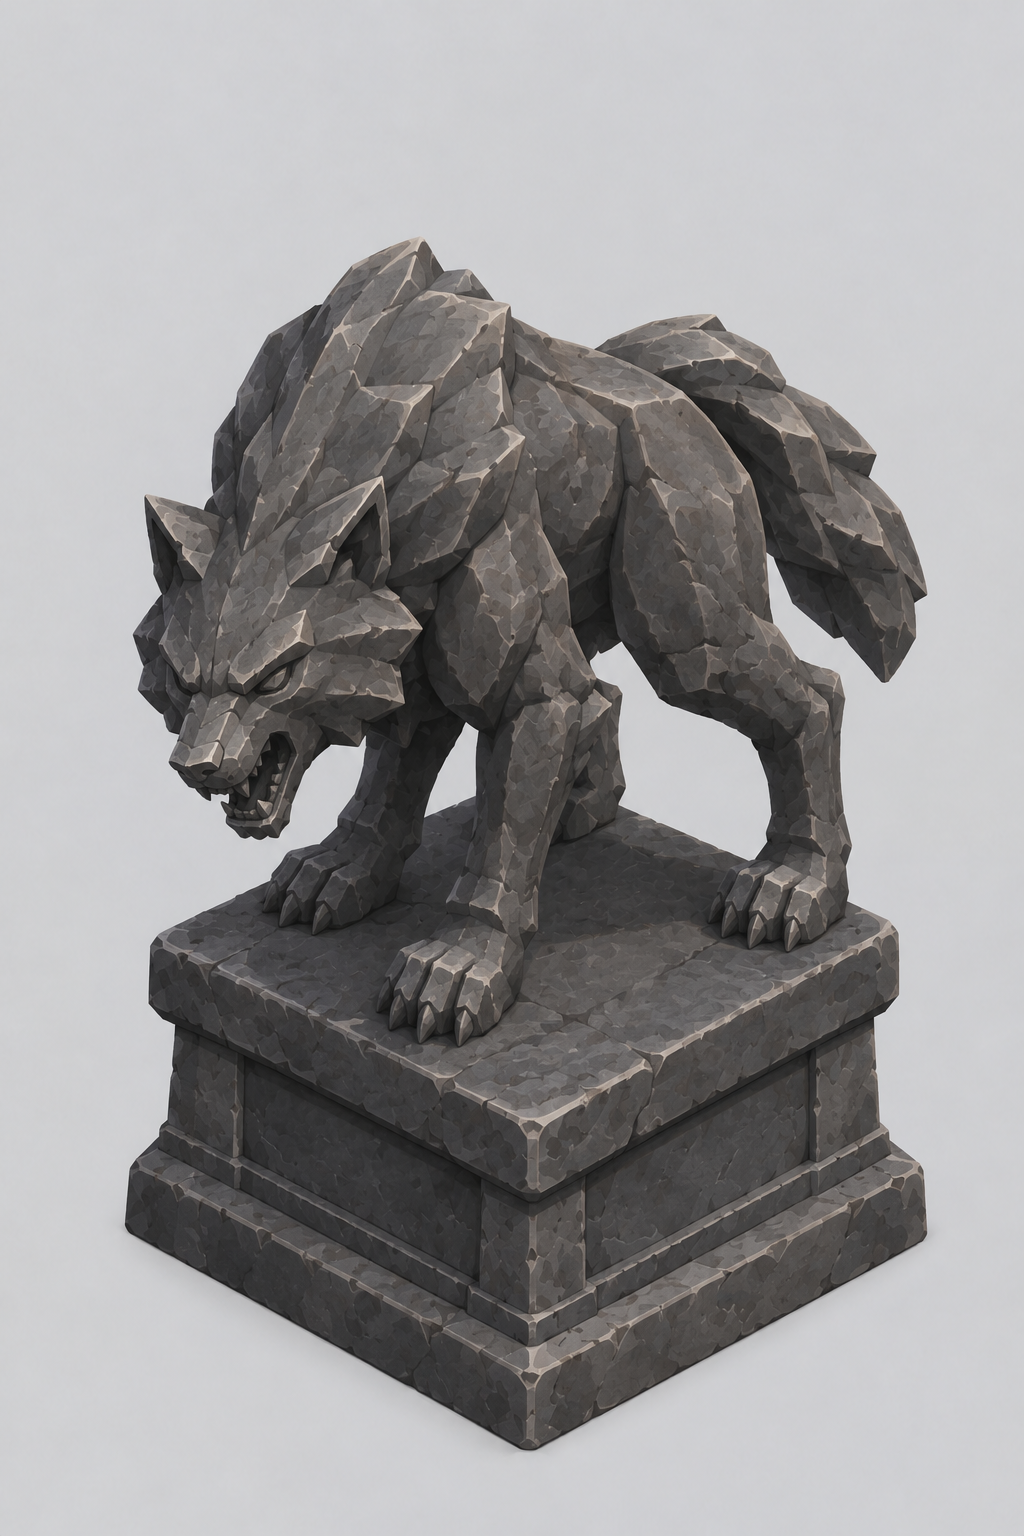
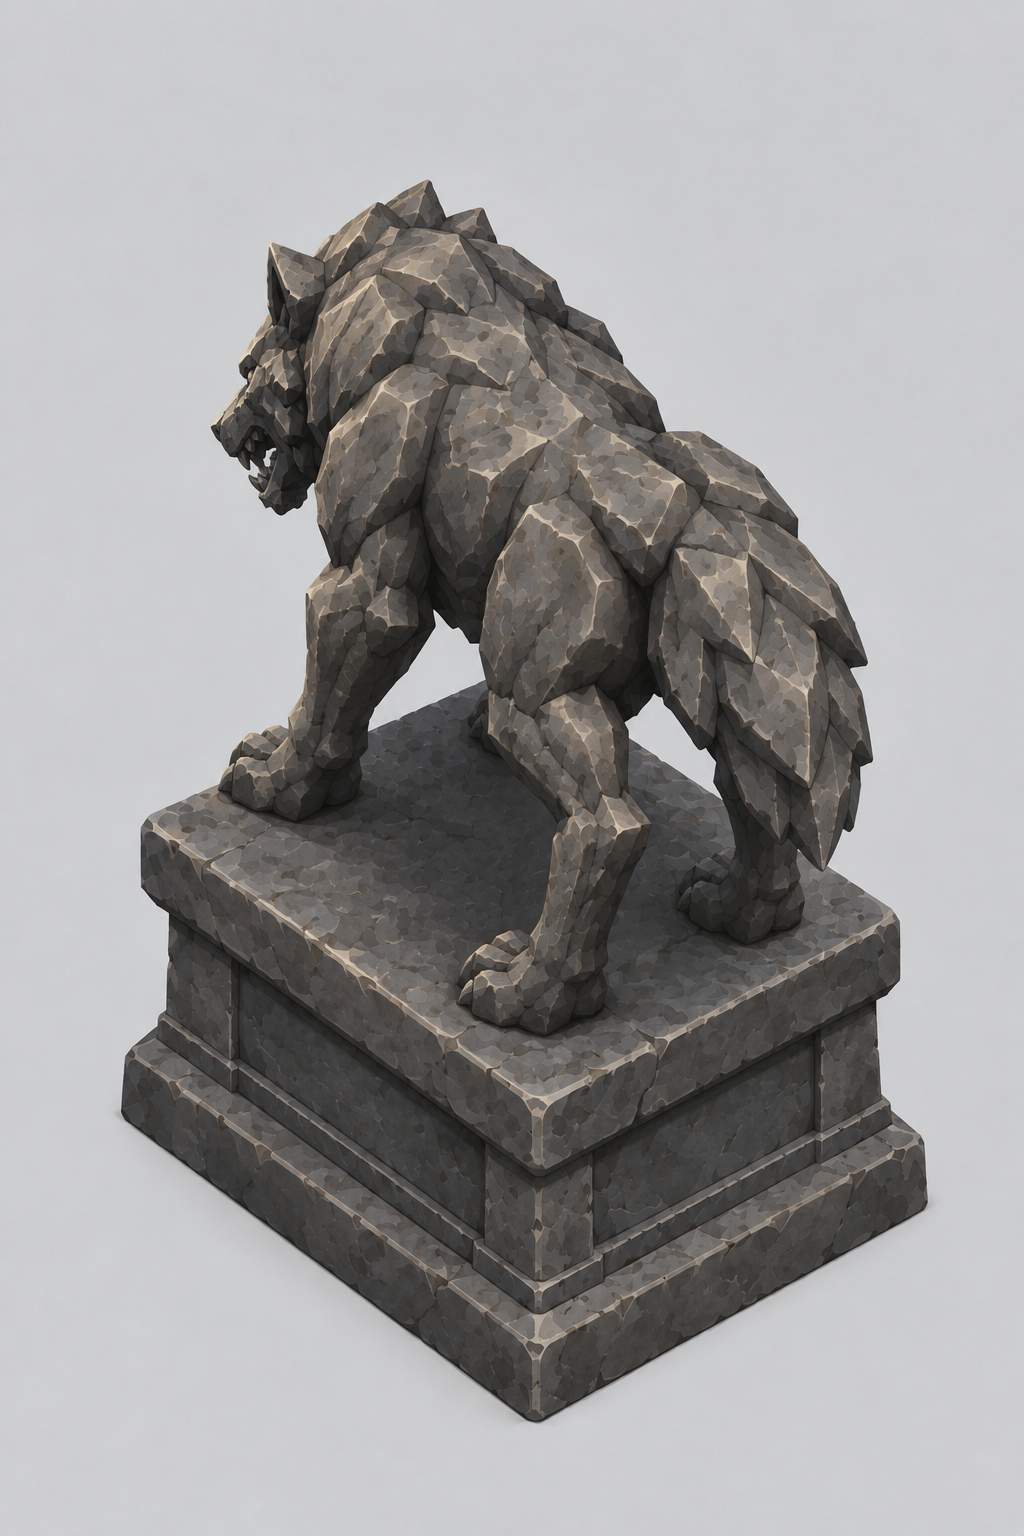
Flip the board view, back-view wolves, animated clouds
- The board is drawn turned 180 degrees (view only, rules unchanged): the
  player deploys at the top and faces down-right towards the enemy rows.
- Wolves use a new back-view statue facing up-left towards the player.
- The tower painting's light areas (its clouds) swirl slowly, and two
  cloud bands drift across the tower walls.
- Scenery fitting finds the board's corners by screen position.

Changed region(s): [[0.0938, 0.0938, 0.9062, 0.9688]]

diff --git a/Assets/Scripts/View/BattleScenery.cs b/Assets/Scripts/View/BattleScenery.cs
@@ -33,11 +33,13 @@ namespace ArmyRoguelike.View
             public Vector2 Top, Left, Bottom, Right;
             // Resources folder with this setting's painted floor slabs (slab_*) and rocks (rock_*), if any.
             public string ArtFolder;
+            // The painting's light parts are clouds: let them swirl, and drift more cloud past in front.
+            public bool Clouds;
         }
 
         private static readonly Dictionary<Setting, IsoScene> IsoScenes = new Dictionary<Setting, IsoScene>
         {
-            [Setting.IsoTower] = new IsoScene { Texture = "Backdrops/iso_tower", Top = new Vector2(838, 155), Left = new Vector2(410, 388), Bottom = new Vector2(842, 632), Right = new Vector2(1262, 380), ArtFolder = "Tower" },
+            [Setting.IsoTower] = new IsoScene { Texture = "Backdrops/iso_tower", Top = new Vector2(838, 155), Left = new Vector2(410, 388), Bottom = new Vector2(842, 632), Right = new Vector2(1262, 380), ArtFolder = "Tower", Clouds = true },
             [Setting.IsoTemple] = new IsoScene { Texture = "Backdrops/iso_temple", Top = new Vector2(745, 220), Left = new Vector2(355, 430), Bottom = new Vector2(880, 735), Right = new Vector2(1265, 470) },
             [Setting.IsoGraveyard] = new IsoScene { Texture = "Backdrops/iso_graveyard", Top = new Vector2(840, 210), Left = new Vector2(325, 470), Bottom = new Vector2(905, 765), Right = new Vector2(1330, 490) },
         };
@@ -78,7 +80,18 @@ namespace ArmyRoguelike.View
 
             if (IsoScenes.TryGetValue(setting, out var scene))
             {
-                BuildIsoScene(root, board, scene, NewMaterial(shader, Resources.Load<Texture2D>(scene.Texture), ramp));
+                var sceneMaterial = NewMaterial(shader, Resources.Load<Texture2D>(scene.Texture), ramp);
+                BuildIsoScene(root, board, scene, sceneMaterial);
+                if (scene.Clouds)
+                {
+                    sceneMaterial.SetFloat("_Flow", 0.012f);
+                    var wisps = CloudTexture();
+                    var screenBottom = centre.y - viewH * 0.5f;
+                    // Two bands at different heights and speeds, low across the tower's walls.
+                    CloudBand(root, NewMaterial(shader, wisps, ramp), FrontCloudOrder, centre.x, viewW, screenBottom - 0.3f, 1.3f, 0.9f, 0.006f);
+                    CloudBand(root, NewMaterial(shader, wisps, ramp), FrontCloudOrder + 1, centre.x, viewW, screenBottom - 0.2f, 0.8f, 1f, -0.011f);
+                }
+
                 var art = scene.ArtFolder != null ? Resources.LoadAll<Sprite>(scene.ArtFolder) : new Sprite[0];
                 var slabs = System.Array.FindAll(art, s => s.name.StartsWith("slab_"));
                 var rocks = System.Array.FindAll(art, s => s.name.StartsWith("rock_"));
@@ -142,14 +155,9 @@ namespace ArmyRoguelike.View
             var tex = (Texture2D)material.mainTexture;
             if (tex == null)
                 return;
-            var w = board.Battle.Board.Width;
-            var h = board.Battle.Board.Height;
+            var c = BoardCorners(board);
             var image = new[] { scene.Top, scene.Left, scene.Bottom, scene.Right };
-            var world = new[]
-            {
-                (Vector2)IsoMath.GridToWorld(w - 0.5f, h - 0.5f), (Vector2)IsoMath.GridToWorld(-0.5f, h - 0.5f),
-                (Vector2)IsoMath.GridToWorld(-0.5f, -0.5f), (Vector2)IsoMath.GridToWorld(w - 0.5f, -0.5f),
-            };
+            var world = new[] { c.top, c.left, c.bottom, c.right };
             var fx = FitAffine(image, world, p => p.x);
             var fy = FitAffine(image, world, p => p.y);
             Vector2 Map(float px, float py) => new Vector2(fx.x * px + fx.y * py + fx.z, fy.x * px + fy.y * py + fy.z);
@@ -181,35 +189,60 @@ namespace ArmyRoguelike.View
         /// <summary>The tower's two front walls, hanging below the board's front edges and fading into haze.</summary>
         private static void BuildWalls(Transform root, BoardView board, Material material)
         {
-            var w = board.Battle.Board.Width;
-            var h = board.Battle.Board.Height;
-            var left = (Vector2)IsoMath.GridToWorld(-0.5f, h - 0.5f);
-            var bottom = (Vector2)IsoMath.GridToWorld(-0.5f, -0.5f);
-            var right = (Vector2)IsoMath.GridToWorld(w - 0.5f, -0.5f);
+            var (_, left, bottom, right) = BoardCorners(board);
             var down = Vector2.down * WallDepth;
             var courses = WallDepth / 0.65f;
             // Light comes from the top left, as on the statues: the left wall is the lit one.
-            Quad(root, "Wall left", material, WallOrder, left + down, bottom + down, bottom, left, Value(0.5f), h * 0.5f, courses, Haze(0.5f));
-            Quad(root, "Wall right", material, WallOrder, bottom + down, right + down, right, bottom, Value(0.33f), w * 0.5f, courses, Haze(0.33f));
+            Quad(root, "Wall left", material, WallOrder, left + down, bottom + down, bottom, left, Value(0.5f), Tiles(left, bottom) * 0.5f, courses, Haze(0.5f));
+            Quad(root, "Wall right", material, WallOrder, bottom + down, right + down, right, bottom, Value(0.33f), Tiles(bottom, right) * 0.5f, courses, Haze(0.33f));
         }
+
+        /// <summary>The board's outer corners as they appear on screen, whichever way the grid runs.</summary>
+        private static (Vector2 top, Vector2 left, Vector2 bottom, Vector2 right) BoardCorners(BoardView board)
+        {
+            var w = board.Battle.Board.Width;
+            var h = board.Battle.Board.Height;
+            var corners = new[]
+            {
+                (Vector2)IsoMath.GridToWorld(-0.5f, -0.5f), (Vector2)IsoMath.GridToWorld(w - 0.5f, -0.5f),
+                (Vector2)IsoMath.GridToWorld(-0.5f, h - 0.5f), (Vector2)IsoMath.GridToWorld(w - 0.5f, h - 0.5f),
+            };
+            Vector2 Most(System.Func<Vector2, float> key)
+            {
+                var best = corners[0];
+                foreach (var p in corners)
+                    if (key(p) > key(best))
+                        best = p;
+                return best;
+            }
+
+            return (Most(p => p.y), Most(p => -p.x), Most(p => -p.y), Most(p => p.x));
+        }
+
+        /// <summary>How many tiles long a board edge between two corners is.</summary>
+        private static int Tiles(Vector2 a, Vector2 b) =>
+            Mathf.RoundToInt(Vector2.Distance(a, b) / ((Vector2)IsoMath.GridToWorld(1f, 0f) - (Vector2)IsoMath.GridToWorld(0f, 0f)).magnitude);
 
         /// <summary>Merlons along the two back edges, every other tile, straddling the edge.</summary>
         private static void BuildBattlements(Transform root, BoardView board, Material material)
         {
-            var w = board.Battle.Board.Width;
-            var h = board.Battle.Board.Height;
+            var (top, left, _, right) = BoardCorners(board);
+            var centre = (left + right) * 0.5f;
             var sprite = MerlonTexture();
-            var spots = new List<Vector2>();
-            for (var i = 0; i < w; i += 2)
-                spots.Add(new Vector2(i, h - 0.5f + 0.15f));
-            for (var j = 0; j < h; j += 2)
-                spots.Add(new Vector2(w - 0.5f + 0.15f, j));
-            spots.Add(new Vector2(w - 0.5f + 0.15f, h - 0.5f + 0.15f));
+            var spots = new List<Vector2> { top + (top - centre).normalized * 0.08f };
+            foreach (var end in new[] { left, right })
+            {
+                var n = Tiles(top, end);
+                var outward = ((top + end) * 0.5f - centre).normalized * 0.08f;
+                for (var i = 0; i < n; i += 2)
+                    spots.Add(Vector2.Lerp(top, end, (i + 0.5f) / n) + outward);
+            }
+
             foreach (var s in spots)
             {
                 var sr = new GameObject("Merlon").AddComponent<SpriteRenderer>();
                 sr.transform.SetParent(root, false);
-                sr.transform.position = IsoMath.GridToWorld(s.x, s.y);
+                sr.transform.position = s;
                 sr.sprite = sprite;
                 sr.sharedMaterial = material;
                 sr.color = Value(1f);

diff --git a/Assets/Scripts/View/IsoMath.cs b/Assets/Scripts/View/IsoMath.cs
@@ -9,21 +9,24 @@ namespace ArmyRoguelike.View
         public const float TileWidth = 1f;
         public const float TileHeight = 0.5f;
 
-        /// <summary>World position of a tile's centre. Grid (0,0) is the bottom corner of the board.</summary>
+        /// <summary>
+        /// World position of a tile's centre. Grid (0,0) is the top corner of the board, so the player's
+        /// rows (low Y) are at the back and the statues, which face the camera, face the enemy.
+        /// </summary>
         public static Vector3 GridToWorld(GridPos p) => GridToWorld(p.X, p.Y);
 
         public static Vector3 GridToWorld(float x, float y) =>
-            new Vector3((x - y) * TileWidth * 0.5f, (x + y) * TileHeight * 0.5f, 0f);
+            new Vector3((y - x) * TileWidth * 0.5f, -(x + y) * TileHeight * 0.5f, 0f);
 
         public static GridPos WorldToGrid(Vector2 world)
         {
-            var a = world.x / (TileWidth * 0.5f);
-            var b = world.y / (TileHeight * 0.5f);
+            var a = -world.x / (TileWidth * 0.5f);
+            var b = -world.y / (TileHeight * 0.5f);
             return new GridPos(Mathf.RoundToInt((a + b) * 0.5f), Mathf.RoundToInt((b - a) * 0.5f));
         }
 
         /// <summary>Sorting order so tiles further back are drawn first. Leaves room for layers within a tile.</summary>
-        public static int SortingOrder(GridPos p) => 1000 - (p.X + p.Y) * 10;
+        public static int SortingOrder(GridPos p) => 1000 + (p.X + p.Y) * 10;
 
         public static int SortingOrder(Vector3 world) => 1000 - Mathf.RoundToInt(world.y / (TileHeight * 0.5f) * 10f);
     }

diff --git a/Assets/Editor/ArtExperiment.cs b/Assets/Editor/ArtExperiment.cs
@@ -13,7 +13,7 @@ using Object = UnityEngine.Object;
 /// <summary>
 /// Art experiment (branch experiment/art-style): turns the AI-generated warrior into sprites (a cut-out
 /// 2D image, and 3D models baked from the board's isometric angle) and renders the same battle with each.
-/// Batch: -executeMethod ArtExperiment.RunFromCommandLine -artOut dir [-artScenery] [-artGrid] [-art2DSet] [-artYawTest] [-artYawTripo 90] [-artYawMeshy 90]
+/// Batch: -executeMethod ArtExperiment.RunFromCommandLine -artOut dir [-artImport] [-artScenery] [-artGrid] [-art2DSet] [-artYawTest] [-artYawTripo 90] [-artYawMeshy 90]
 /// </summary>
 public static class ArtExperiment
 {
@@ -72,6 +72,14 @@ public static class ArtExperiment
 
             sheet.Apply();
             Save(sheet, Path.Combine(outDir, "scenery_overview.png"));
+            EditorApplication.Exit(0);
+            return;
+        }
+
+        if (args.Contains("-artImport"))
+        {
+            ImportStatues();
+            ImportTowerArt();
             EditorApplication.Exit(0);
             return;
         }

diff --git a/Assets/Scripts/View/UnitView.cs b/Assets/Scripts/View/UnitView.cs
@@ -56,8 +56,9 @@ namespace ArmyRoguelike.View
             if (PlaceholderArt.IsPainted(unit.Stats.Kind))
             {
                 _baseColor = Color.white;
-                // The art faces down-left; enemies turn round to face the player's side.
-                _body.flipX = unit.Team == Team.Enemy;
+                // Player art faces down-left and is mirrored to face down-right, towards the enemy rows; enemy
+                // art is drawn from behind, facing up-left towards the player.
+                _body.flipX = unit.Team == Team.Player;
             }
             _body.color = _baseColor;
             if (unit.IsPackLeader)
